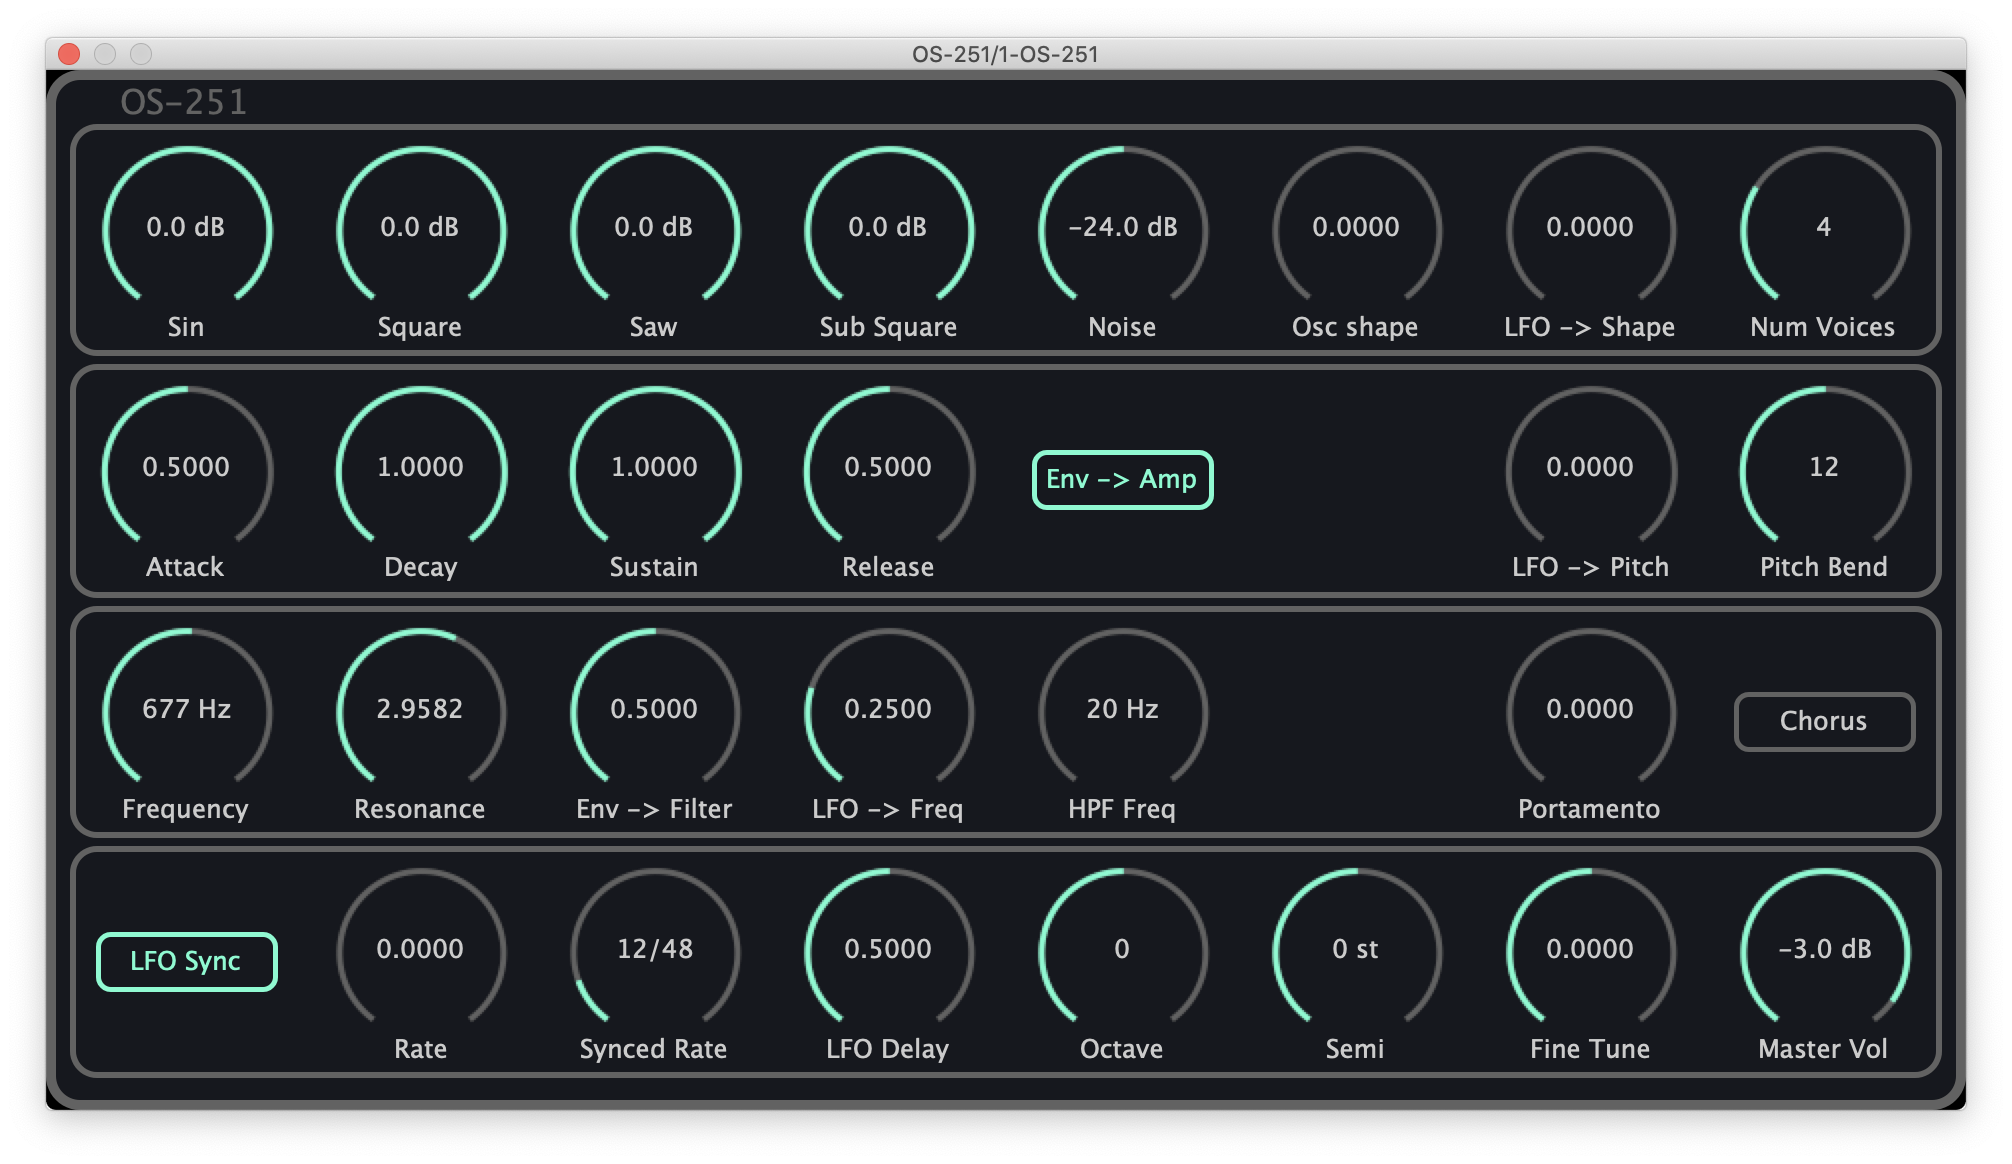
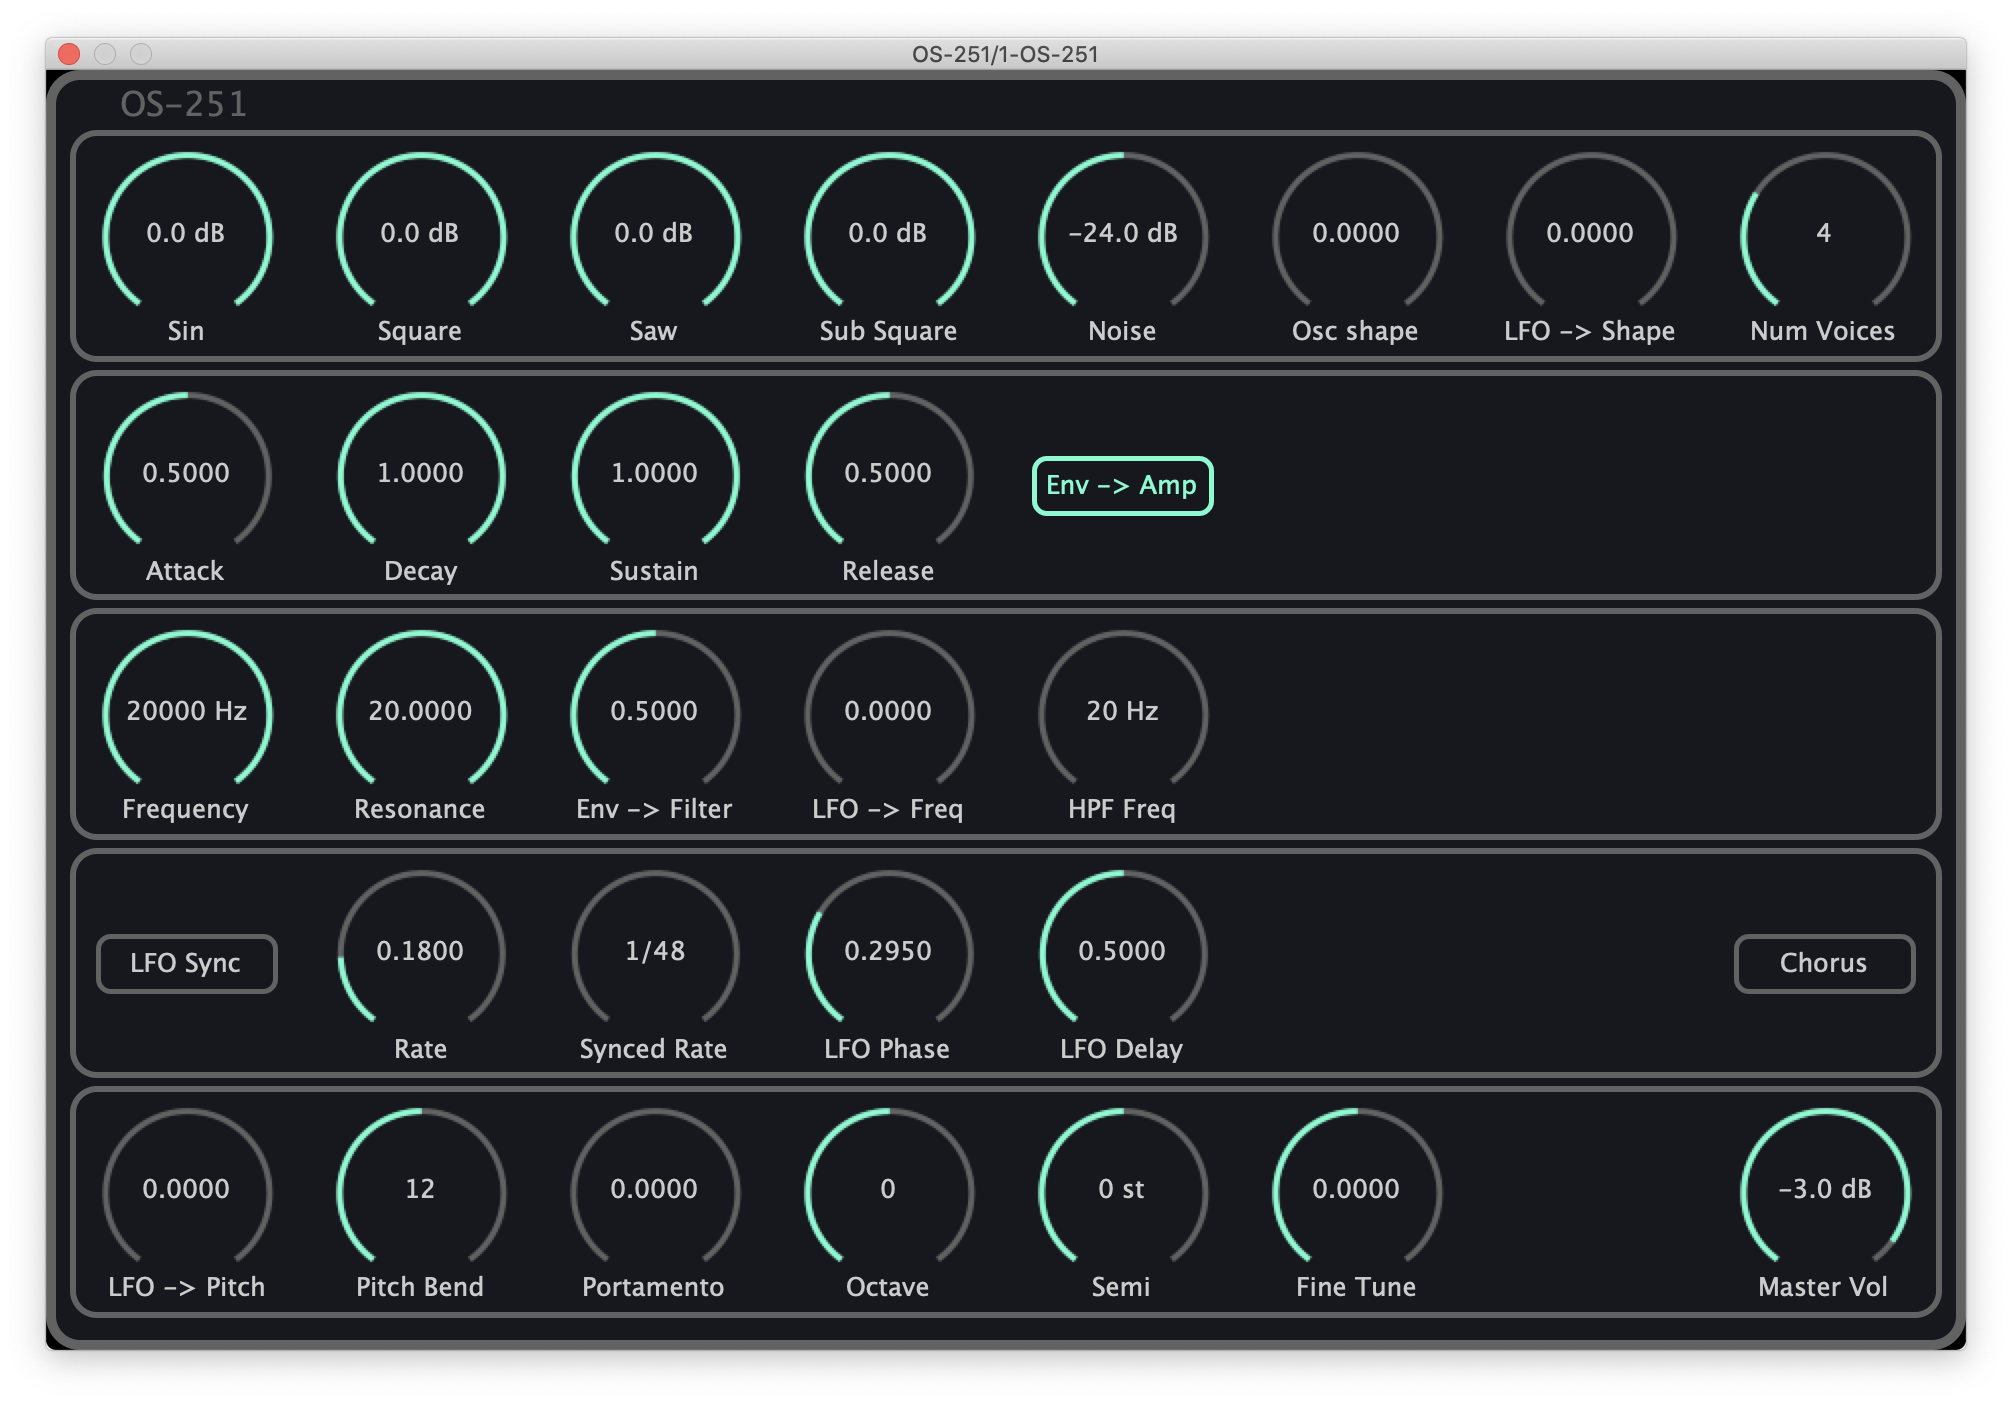
Add `LFO phase` parameter

Changed region(s): [[0.0, 0.0309, 0.9861, 0.9897]]

diff --git a/src/jsui/src/App.js b/src/jsui/src/App.js
@@ -173,14 +173,8 @@ class App extends Component {
               isOn={this.state.isEnvForAmpOn}
             />
             <DummyModule />
-            <SliderModule
-              paramId="lfoPitch"
-              paramLabel="LFO -> Pitch"
-            />
-            <SliderModule
-              paramId="pitchBendWidth"
-              paramLabel="Pitch Bend"
-            />
+            <DummyModule />
+            <DummyModule />
           </View>
           <View {...styles.param_row}>
             <SliderModule
@@ -204,16 +198,8 @@ class App extends Component {
               paramLabel="HPF Freq"
             />
             <DummyModule />
-            <SliderModule
-              paramId="portamento"
-              paramLabel="Portamento"
-            />
-            <ButtonModule
-              paramId="chorusOn"
-              paramLabel="Chorus"
-              onToggled={this._onChorusToggled}
-              isOn={this.state.isChorusOn}
-            />
+            <DummyModule />
+            <DummyModule />
           </View>
           <View {...styles.param_row}>
             <ButtonModule
@@ -231,8 +217,34 @@ class App extends Component {
               paramLabel="Synced Rate"
             />
             <SliderModule
+              paramId="lfoPhase"
+              paramLabel="LFO Phase"
+            />
+            <SliderModule
               paramId="lfoDelay"
               paramLabel="LFO Delay"
+            />
+            <DummyModule />
+            <DummyModule />
+            <ButtonModule
+              paramId="chorusOn"
+              paramLabel="Chorus"
+              onToggled={this._onChorusToggled}
+              isOn={this.state.isChorusOn}
+            />
+          </View>
+          <View {...styles.param_row}>
+            <SliderModule
+              paramId="lfoPitch"
+              paramLabel="LFO -> Pitch"
+            />
+            <SliderModule
+              paramId="pitchBendWidth"
+              paramLabel="Pitch Bend"
+            />
+            <SliderModule
+              paramId="portamento"
+              paramLabel="Portamento"
             />
             <SliderModule
               paramId="masterOctaveTune"
@@ -246,6 +258,7 @@ class App extends Component {
               paramId="masterFineTune"
               paramLabel="Fine Tune"
             />
+            <DummyModule />
             <SliderModule
               paramId="masterVolume"
               paramLabel="Master Vol"

diff --git a/src/PluginProcessor.cpp b/src/PluginProcessor.cpp
@@ -112,6 +112,7 @@ Os251AudioProcessor::Os251AudioProcessor()
     oscillatorParams->setNoiseGainPtr (parameters.getRawParameterValue ("noiseGain"));
     parameters.addParameterListener ("noiseGain", this);
 
+    // Noise shape
     parameters.createAndAddParameter (std::make_unique<Parameter> ("shape", "Shape", "", nrange, 0.0, valueToTextFunction, nullptr, true));
     oscillatorParams->setShapePtr (parameters.getRawParameterValue ("shape"));
     parameters.addParameterListener ("shape", this);
@@ -151,6 +152,11 @@ Os251AudioProcessor::Os251AudioProcessor()
     parameters.createAndAddParameter (std::make_unique<Parameter> ("rateSync", "Synced LFO Rate", "", nrange, 0.0, syncedRateTextFunction, nullptr, true));
     lfoParams->setRateSyncPtr (parameters.getRawParameterValue ("rateSync"));
     parameters.addParameterListener ("rateSync", this);
+
+    // Lfo phase
+    parameters.createAndAddParameter (std::make_unique<Parameter> ("lfoPhase", "LFO Phase", "", nrange, 0.0, valueToTextFunction, nullptr, true));
+    lfoParams->setPhasePtr (parameters.getRawParameterValue (("lfoPhase")));
+    parameters.addParameterListener ("lfoPhase", this);
 
     // LFO delay
     parameters.createAndAddParameter (std::make_unique<Parameter> ("lfoDelay", "LFO Chorus", "", nrange, 0.5, valueToTextFunction, nullptr, true));
@@ -418,7 +424,7 @@ juce::AudioProcessorEditor* Os251AudioProcessor::createEditor()
 
     auto* editor = new blueprint::BlueprintGenericEditor (*this, bundle);
 
-    editor->setSize (960, 480 + 40);
+    editor->setSize (960, 600 + 40);
 
     return editor;
 }

diff --git a/src/params/LfoParams.h b/src/params/LfoParams.h
@@ -39,6 +39,17 @@ public:
         rateSync = _rateSync;
         rateSyncVal = *rateSync;
     }
+    flnum getPhase() const
+    {
+        constexpr flnum minVal = 0.0;
+        constexpr flnum maxVal = 2 * pi;
+        return minVal + (phaseVal) * (maxVal - minVal);
+    }
+    void setPhasePtr (const std::atomic<flnum>* _phase)
+    {
+        phase = _phase;
+        phaseVal = *phase;
+    }
     flnum getDelay() const
     {
         constexpr flnum minVal = 0.995;
@@ -90,6 +101,7 @@ public:
     {
         rateVal = *rate;
         rateSyncVal = *rateSync;
+        phaseVal = *phase;
         delayVal = *delay;
         syncOnVal = *syncOn;
         pitchVal = *pitch;
@@ -127,6 +139,8 @@ private:
     // LFO rate
     const std::atomic<flnum>* rate {};
     const std::atomic<flnum>* rateSync {};
+    // LFO phase
+    const std::atomic<flnum>* phase {};
     // LFO delay
     const std::atomic<flnum>* delay {};
     // Sync On
@@ -138,6 +152,7 @@ private:
 
     flnum rateVal = 0.0;
     flnum rateSyncVal = 0.0;
+    flnum phaseVal = 0.0;
     flnum delayVal = 0.0;
     flnum syncOnVal = 0.0;
     flnum pitchVal = 0.0;

diff --git a/src/Lfo.h b/src/Lfo.h
@@ -48,6 +48,9 @@ public:
             constexpr flnum ampNoteStart = MAX_LEVEL * 0.01;
             amp = ampNoteStart;
             ampSync = ampNoteStart;
+            const flnum phase = p->getPhase();
+            currentAngle = 0.0 + phase;
+            currentAngleSync = 0.0 + phase;
         }
     }
 

diff --git a/README.md b/README.md
@@ -20,10 +20,10 @@ This plugin is currently under development.
 - [x] Master pitch setting (3 knobs)
 - [x] Pitchbend width setting
 - [ ] Presets
-- [ ] (Optional) Make LFO sync with the host's tempo.
+- [x] (Optional) Make LFO sync with the host's tempo.
   Maybe "Sync ON" button and "Phase" knob will be added.
-- [ ] (Optional) Tempo LFO re-triggered by MIDI notes ("retring").
-  Maybe "Tempo ON" button and "Phase" knob will be added.
+- [ ] ~~(Optional) Tempo LFO re-triggered by MIDI notes ("retring").~~
+  ~~Maybe "Tempo ON" button and "Phase" knob will be added.~~
 - [x] Allow to change number of voices
 - [ ] Unison
 - [x] Portamento
